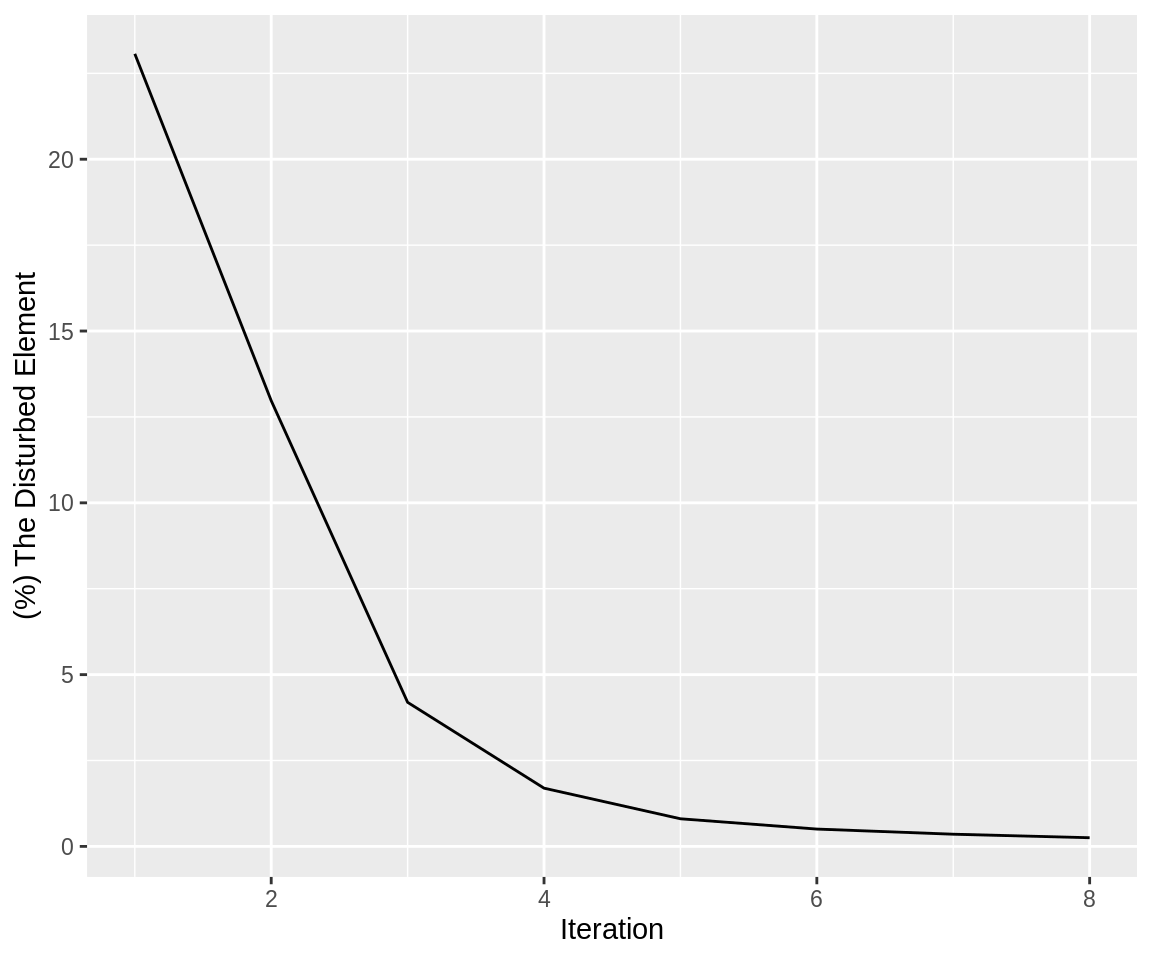
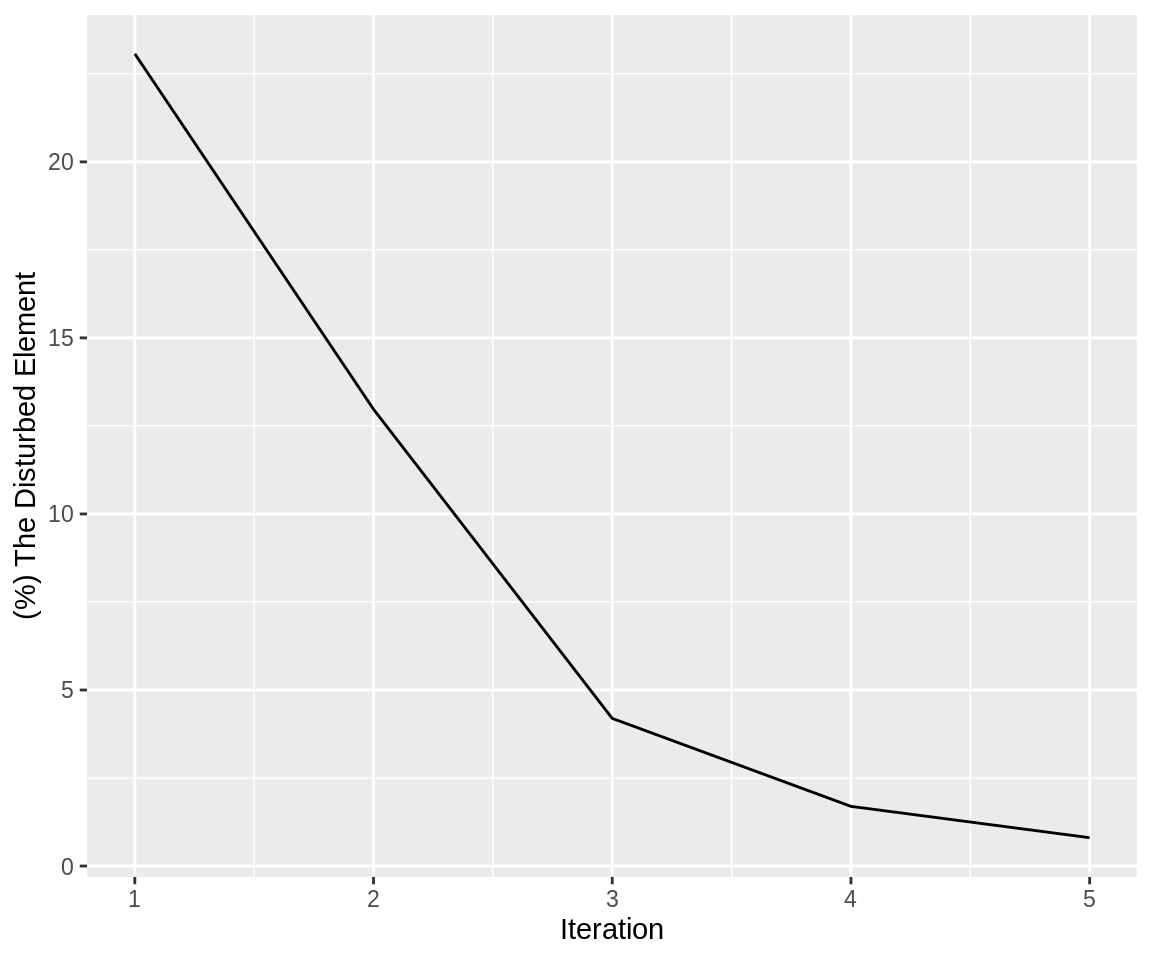
Built site for ceRNAnetsim: 0.99.23@09b2c7a

diff --git a/articles/mirtarbase_example.html b/articles/mirtarbase_example.html
@@ -39,7 +39,7 @@
       </button>
       <span class="navbar-brand">
         <a class="navbar-link" href="../index.html">ceRNAnetsim</a>
-        <span class="version label label-default" data-toggle="tooltip" data-placement="bottom" title="Released version">0.99.22</span>
+        <span class="version label label-default" data-toggle="tooltip" data-placement="bottom" title="Released version">0.99.23</span>
       </span>
     </div>
 
@@ -291,7 +291,7 @@
 <a class="sourceLine" id="cb12-3" data-line-number="3"><span class="st">  </span><span class="kw"><a href="../reference/priming_graph.html">priming_graph</a></span>(<span class="dt">competing_count =</span> gene_expression, </a>
 <a class="sourceLine" id="cb12-4" data-line-number="4">                <span class="dt">miRNA_count =</span> total_read) <span class="op">%&gt;%</span><span class="st"> </span></a>
 <a class="sourceLine" id="cb12-5" data-line-number="5"><span class="st">  </span><span class="kw"><a href="../reference/update_how.html">update_how</a></span>(<span class="dt">node_name =</span> <span class="st">"HIST1H3H"</span>, <span class="dt">how =</span><span class="dv">30</span>) <span class="op">%&gt;%</span><span class="st"> </span></a>
-<a class="sourceLine" id="cb12-6" data-line-number="6"><span class="st">  </span><span class="kw"><a href="../reference/simulate.html">simulate</a></span>(<span class="dv">8</span>) -&gt;simulation_res_HIST</a>
+<a class="sourceLine" id="cb12-6" data-line-number="6"><span class="st">  </span><span class="kw"><a href="../reference/simulate.html">simulate</a></span>(<span class="dv">5</span>) -&gt;simulation_res_HIST</a>
 <a class="sourceLine" id="cb12-7" data-line-number="7"></a>
 <a class="sourceLine" id="cb12-8" data-line-number="8">simulation_res_HIST<span class="op">%&gt;%</span></a>
 <a class="sourceLine" id="cb12-9" data-line-number="9"><span class="st">  </span><span class="kw"><a href="../reference/find_iteration.html">find_iteration</a></span>(<span class="dt">plot=</span><span class="ot">TRUE</span>)</a></code></pre></div>
@@ -305,23 +305,23 @@
 <a class="sourceLine" id="cb13-6" data-line-number="6"><span class="co">#&gt; # A tibble: 13,432 x 8</span></a>
 <a class="sourceLine" id="cb13-7" data-line-number="7"><span class="co">#&gt;    name  type  node_id initial_count count_pre count_current changes_variable</span></a>
 <a class="sourceLine" id="cb13-8" data-line-number="8"><span class="co">#&gt;    &lt;chr&gt; &lt;chr&gt;   &lt;int&gt;         &lt;dbl&gt;     &lt;dbl&gt;         &lt;dbl&gt; &lt;chr&gt;           </span></a>
-<a class="sourceLine" id="cb13-9" data-line-number="9"><span class="co">#&gt;  1 HIST… Comp…    9705            27     808.          808.  Up              </span></a>
+<a class="sourceLine" id="cb13-9" data-line-number="9"><span class="co">#&gt;  1 HIST… Comp…    9705            27     808.          808.  Down            </span></a>
 <a class="sourceLine" id="cb13-10" data-line-number="10"><span class="co">#&gt;  2 KLHL… Comp…     618           579     579.          579.  Up              </span></a>
-<a class="sourceLine" id="cb13-11" data-line-number="11"><span class="co">#&gt;  3 YWHAZ Comp…     393         15845   15845.        15845.  Down            </span></a>
+<a class="sourceLine" id="cb13-11" data-line-number="11"><span class="co">#&gt;  3 YWHAZ Comp…     393         15845   15845.        15845.  Up              </span></a>
 <a class="sourceLine" id="cb13-12" data-line-number="12"><span class="co">#&gt;  4 SOCS1 Comp…     433            27      27.0          27.0 Up              </span></a>
-<a class="sourceLine" id="cb13-13" data-line-number="13"><span class="co">#&gt;  5 NNT   Comp…    3404          1909    1909.         1909.  Up              </span></a>
-<a class="sourceLine" id="cb13-14" data-line-number="14"><span class="co">#&gt;  6 PPIP… Comp…    7084          2342    2342.         2342.  Up              </span></a>
-<a class="sourceLine" id="cb13-15" data-line-number="15"><span class="co">#&gt;  7 LYVE1 Comp…   11198           916     916.          916.  Up              </span></a>
-<a class="sourceLine" id="cb13-16" data-line-number="16"><span class="co">#&gt;  8 IL10  Comp…    1639            13      13.0          13.0 Up              </span></a>
-<a class="sourceLine" id="cb13-17" data-line-number="17"><span class="co">#&gt;  9 L1CAM Comp…    2651            60      60.0          60.0 Down            </span></a>
-<a class="sourceLine" id="cb13-18" data-line-number="18"><span class="co">#&gt; 10 IFIT… Comp…    6030          1550    1550.         1550.  Up              </span></a>
+<a class="sourceLine" id="cb13-13" data-line-number="13"><span class="co">#&gt;  5 NNT   Comp…    3404          1909    1909.         1909.  Down            </span></a>
+<a class="sourceLine" id="cb13-14" data-line-number="14"><span class="co">#&gt;  6 PPIP… Comp…    7084          2342    2342.         2342.  Down            </span></a>
+<a class="sourceLine" id="cb13-15" data-line-number="15"><span class="co">#&gt;  7 LYVE1 Comp…   11198           916     916.          916.  Down            </span></a>
+<a class="sourceLine" id="cb13-16" data-line-number="16"><span class="co">#&gt;  8 IL10  Comp…    1639            13      13.0          13.0 Down            </span></a>
+<a class="sourceLine" id="cb13-17" data-line-number="17"><span class="co">#&gt;  9 L1CAM Comp…    2651            60      60.0          60.0 Up              </span></a>
+<a class="sourceLine" id="cb13-18" data-line-number="18"><span class="co">#&gt; 10 IFIT… Comp…    6030          1550    1550.         1550.  Down            </span></a>
 <a class="sourceLine" id="cb13-19" data-line-number="19"><span class="co">#&gt; # … with 13,422 more rows, and 1 more variable: FC &lt;dbl&gt;</span></a></code></pre></div>
 <p>And then, we tried to simulate the network with the gene which has higher expression value. For this, we selected <em>ACTB</em> node as shown in <a href="https://selcenari.github.io/ceRNAnetsim/articles/auxiliary_commands.html">The auxiliary commands which can help to the users</a></p>
 <div class="sourceCode" id="cb14"><pre class="sourceCode r"><code class="sourceCode r"><a class="sourceLine" id="cb14-1" data-line-number="1">simulation_res_ACTB &lt;-<span class="st"> </span>TCGA_E9_A1N5_mirnagene <span class="op">%&gt;%</span><span class="st"> </span></a>
 <a class="sourceLine" id="cb14-2" data-line-number="2"><span class="st">  </span><span class="kw"><a href="../reference/priming_graph.html">priming_graph</a></span>(<span class="dt">competing_count =</span> gene_expression, </a>
 <a class="sourceLine" id="cb14-3" data-line-number="3">                <span class="dt">miRNA_count =</span> total_read) <span class="op">%&gt;%</span><span class="st"> </span></a>
 <a class="sourceLine" id="cb14-4" data-line-number="4"><span class="st">  </span><span class="kw"><a href="../reference/update_how.html">update_how</a></span>(<span class="dt">node_name =</span> <span class="st">"ACTB"</span>, <span class="dt">how =</span><span class="fl">1.87</span>) <span class="op">%&gt;%</span><span class="st"> </span></a>
-<a class="sourceLine" id="cb14-5" data-line-number="5"><span class="st">  </span><span class="kw"><a href="../reference/simulate.html">simulate</a></span>(<span class="dv">8</span>)</a>
+<a class="sourceLine" id="cb14-5" data-line-number="5"><span class="st">  </span><span class="kw"><a href="../reference/simulate.html">simulate</a></span>(<span class="dv">5</span>)</a>
 <a class="sourceLine" id="cb14-6" data-line-number="6"></a>
 <a class="sourceLine" id="cb14-7" data-line-number="7">simulation_res_ACTB<span class="op">%&gt;%</span></a>
 <a class="sourceLine" id="cb14-8" data-line-number="8"><span class="st">  </span><span class="kw"><a href="../reference/find_iteration.html">find_iteration</a></span>(<span class="dt">plot=</span><span class="ot">TRUE</span>)</a></code></pre></div>
@@ -335,16 +335,16 @@
 <a class="sourceLine" id="cb15-6" data-line-number="6"><span class="co">#&gt; # A tibble: 13,432 x 8</span></a>
 <a class="sourceLine" id="cb15-7" data-line-number="7"><span class="co">#&gt;    name  type  node_id initial_count count_pre count_current changes_variable</span></a>
 <a class="sourceLine" id="cb15-8" data-line-number="8"><span class="co">#&gt;    &lt;chr&gt; &lt;chr&gt;   &lt;int&gt;         &lt;dbl&gt;     &lt;dbl&gt;         &lt;dbl&gt; &lt;chr&gt;           </span></a>
-<a class="sourceLine" id="cb15-9" data-line-number="9"><span class="co">#&gt;  1 ACTB  Comp…      84        101917  183710.       183710.  Up              </span></a>
-<a class="sourceLine" id="cb15-10" data-line-number="10"><span class="co">#&gt;  2 ADIP… Comp…     319          3015    3026.         3026.  Up              </span></a>
+<a class="sourceLine" id="cb15-9" data-line-number="9"><span class="co">#&gt;  1 ACTB  Comp…      84        101917  183711.       183710.  Down            </span></a>
+<a class="sourceLine" id="cb15-10" data-line-number="10"><span class="co">#&gt;  2 ADIP… Comp…     319          3015    3026.         3026.  Down            </span></a>
 <a class="sourceLine" id="cb15-11" data-line-number="11"><span class="co">#&gt;  3 RRM2  Comp…      67          1479    1484.         1484.  Up              </span></a>
-<a class="sourceLine" id="cb15-12" data-line-number="12"><span class="co">#&gt;  4 FAM1… Comp…     385           569     571.          571.  Up              </span></a>
+<a class="sourceLine" id="cb15-12" data-line-number="12"><span class="co">#&gt;  4 FAM1… Comp…     385           569     571.          571.  Down            </span></a>
 <a class="sourceLine" id="cb15-13" data-line-number="13"><span class="co">#&gt;  5 YOD1  Comp…     472           470     472.          472.  Up              </span></a>
 <a class="sourceLine" id="cb15-14" data-line-number="14"><span class="co">#&gt;  6 ZNF2… Comp…     302          1395    1400.         1400.  Up              </span></a>
-<a class="sourceLine" id="cb15-15" data-line-number="15"><span class="co">#&gt;  7 DNAJ… Comp…     557            60      60.2          60.2 Up              </span></a>
+<a class="sourceLine" id="cb15-15" data-line-number="15"><span class="co">#&gt;  7 DNAJ… Comp…     557            60      60.2          60.2 Down            </span></a>
 <a class="sourceLine" id="cb15-16" data-line-number="16"><span class="co">#&gt;  8 FXN   Comp…     374           382     383.          383.  Up              </span></a>
-<a class="sourceLine" id="cb15-17" data-line-number="17"><span class="co">#&gt;  9 NKIR… Comp…       4          1519    1524.         1524.  Up              </span></a>
-<a class="sourceLine" id="cb15-18" data-line-number="18"><span class="co">#&gt; 10 NRAS  Comp…       7          2311    2318.         2318.  Up              </span></a>
+<a class="sourceLine" id="cb15-17" data-line-number="17"><span class="co">#&gt;  9 NKIR… Comp…       4          1519    1524.         1524.  Down            </span></a>
+<a class="sourceLine" id="cb15-18" data-line-number="18"><span class="co">#&gt; 10 CDKN… Comp…      42          1172    1173.         1176.  Up              </span></a>
 <a class="sourceLine" id="cb15-19" data-line-number="19"><span class="co">#&gt; # … with 13,422 more rows, and 1 more variable: FC &lt;dbl&gt;</span></a></code></pre></div>
 <p>Note: it can be useful that you look at <a href="https://selcenari.github.io/ceRNAnetsim/articles/auxiliary_commands.html">The auxiliary commands which can help to the users</a> for perturbation efficiency of ACTB gene by simulation with same conditions and different expression changes.</p>
 </div>
@@ -514,7 +514,7 @@
 <a class="sourceLine" id="cb22-19" data-line-number="19"><span class="co">#&gt; [1] stats     graphics  grDevices utils     datasets  methods   base     </span></a>
 <a class="sourceLine" id="cb22-20" data-line-number="20"><span class="co">#&gt; </span></a>
 <a class="sourceLine" id="cb22-21" data-line-number="21"><span class="co">#&gt; other attached packages:</span></a>
-<a class="sourceLine" id="cb22-22" data-line-number="22"><span class="co">#&gt; [1] ceRNAnetsim_0.99.22 tidygraph_1.1.2     dplyr_0.8.3        </span></a>
+<a class="sourceLine" id="cb22-22" data-line-number="22"><span class="co">#&gt; [1] ceRNAnetsim_0.99.23 tidygraph_1.1.2     dplyr_0.8.3        </span></a>
 <a class="sourceLine" id="cb22-23" data-line-number="23"><span class="co">#&gt; </span></a>
 <a class="sourceLine" id="cb22-24" data-line-number="24"><span class="co">#&gt; loaded via a namespace (and not attached):</span></a>
 <a class="sourceLine" id="cb22-25" data-line-number="25"><span class="co">#&gt;  [1] tidyselect_0.2.5   xfun_0.11          purrr_0.3.3        listenv_0.7.0     </span></a>

diff --git a/articles/auxiliary_commands.html b/articles/auxiliary_commands.html
@@ -39,7 +39,7 @@
       </button>
       <span class="navbar-brand">
         <a class="navbar-link" href="../index.html">ceRNAnetsim</a>
-        <span class="version label label-default" data-toggle="tooltip" data-placement="bottom" title="Released version">0.99.22</span>
+        <span class="version label label-default" data-toggle="tooltip" data-placement="bottom" title="Released version">0.99.23</span>
       </span>
     </div>
 
@@ -270,7 +270,7 @@
 <a class="sourceLine" id="cb10-19" data-line-number="19"><span class="co">#&gt; [1] stats     graphics  grDevices utils     datasets  methods   base     </span></a>
 <a class="sourceLine" id="cb10-20" data-line-number="20"><span class="co">#&gt; </span></a>
 <a class="sourceLine" id="cb10-21" data-line-number="21"><span class="co">#&gt; other attached packages:</span></a>
-<a class="sourceLine" id="cb10-22" data-line-number="22"><span class="co">#&gt; [1] ceRNAnetsim_0.99.22 tidygraph_1.1.2     dplyr_0.8.3        </span></a>
+<a class="sourceLine" id="cb10-22" data-line-number="22"><span class="co">#&gt; [1] ceRNAnetsim_0.99.23 tidygraph_1.1.2     dplyr_0.8.3        </span></a>
 <a class="sourceLine" id="cb10-23" data-line-number="23"><span class="co">#&gt; </span></a>
 <a class="sourceLine" id="cb10-24" data-line-number="24"><span class="co">#&gt; loaded via a namespace (and not attached):</span></a>
 <a class="sourceLine" id="cb10-25" data-line-number="25"><span class="co">#&gt;  [1] tidyselect_0.2.5   xfun_0.11          purrr_0.3.3        listenv_0.7.0     </span></a>

diff --git a/articles/basic_usage.html b/articles/basic_usage.html
@@ -39,7 +39,7 @@
       </button>
       <span class="navbar-brand">
         <a class="navbar-link" href="../index.html">ceRNAnetsim</a>
-        <span class="version label label-default" data-toggle="tooltip" data-placement="bottom" title="Released version">0.99.22</span>
+        <span class="version label label-default" data-toggle="tooltip" data-placement="bottom" title="Released version">0.99.23</span>
       </span>
     </div>
 
@@ -748,7 +748,7 @@
 <a class="sourceLine" id="cb29-19" data-line-number="19"><span class="co">#&gt; [1] stats     graphics  grDevices utils     datasets  methods   base     </span></a>
 <a class="sourceLine" id="cb29-20" data-line-number="20"><span class="co">#&gt; </span></a>
 <a class="sourceLine" id="cb29-21" data-line-number="21"><span class="co">#&gt; other attached packages:</span></a>
-<a class="sourceLine" id="cb29-22" data-line-number="22"><span class="co">#&gt; [1] ceRNAnetsim_0.99.22 tidygraph_1.1.2     dplyr_0.8.3        </span></a>
+<a class="sourceLine" id="cb29-22" data-line-number="22"><span class="co">#&gt; [1] ceRNAnetsim_0.99.23 tidygraph_1.1.2     dplyr_0.8.3        </span></a>
 <a class="sourceLine" id="cb29-23" data-line-number="23"><span class="co">#&gt; </span></a>
 <a class="sourceLine" id="cb29-24" data-line-number="24"><span class="co">#&gt; loaded via a namespace (and not attached):</span></a>
 <a class="sourceLine" id="cb29-25" data-line-number="25"><span class="co">#&gt;  [1] tidyselect_0.2.5   xfun_0.11          purrr_0.3.3        listenv_0.7.0     </span></a>

diff --git a/articles/convenient_iteration.html b/articles/convenient_iteration.html
@@ -39,7 +39,7 @@
       </button>
       <span class="navbar-brand">
         <a class="navbar-link" href="../index.html">ceRNAnetsim</a>
-        <span class="version label label-default" data-toggle="tooltip" data-placement="bottom" title="Released version">0.99.22</span>
+        <span class="version label label-default" data-toggle="tooltip" data-placement="bottom" title="Released version">0.99.23</span>
       </span>
     </div>
 
@@ -519,7 +519,7 @@
 <a class="sourceLine" id="cb16-19" data-line-number="19"><span class="co">#&gt; [1] stats     graphics  grDevices utils     datasets  methods   base     </span></a>
 <a class="sourceLine" id="cb16-20" data-line-number="20"><span class="co">#&gt; </span></a>
 <a class="sourceLine" id="cb16-21" data-line-number="21"><span class="co">#&gt; other attached packages:</span></a>
-<a class="sourceLine" id="cb16-22" data-line-number="22"><span class="co">#&gt; [1] purrr_0.3.3         png_0.1-7           ceRNAnetsim_0.99.22</span></a>
+<a class="sourceLine" id="cb16-22" data-line-number="22"><span class="co">#&gt; [1] purrr_0.3.3         png_0.1-7           ceRNAnetsim_0.99.23</span></a>
 <a class="sourceLine" id="cb16-23" data-line-number="23"><span class="co">#&gt; [4] tidygraph_1.1.2     dplyr_0.8.3        </span></a>
 <a class="sourceLine" id="cb16-24" data-line-number="24"><span class="co">#&gt; </span></a>
 <a class="sourceLine" id="cb16-25" data-line-number="25"><span class="co">#&gt; loaded via a namespace (and not attached):</span></a>

diff --git a/reference/calc_perturbation.html b/reference/calc_perturbation.html
@@ -88,7 +88,7 @@ trigger and finds the perturbed node count for a given node." />
       </button>
       <span class="navbar-brand">
         <a class="navbar-link" href="../index.html">ceRNAnetsim</a>
-        <span class="version label label-default" data-toggle="tooltip" data-placement="bottom" title="Released version">0.99.22</span>
+        <span class="version label label-default" data-toggle="tooltip" data-placement="bottom" title="Released version">0.99.23</span>
       </span>
     </div>
 

diff --git a/reference/normalize.html b/reference/normalize.html
@@ -86,7 +86,7 @@ inside a group. The helper function of priming_graph." />
       </button>
       <span class="navbar-brand">
         <a class="navbar-link" href="../index.html">ceRNAnetsim</a>
-        <span class="version label label-default" data-toggle="tooltip" data-placement="bottom" title="Released version">0.99.22</span>
+        <span class="version label label-default" data-toggle="tooltip" data-placement="bottom" title="Released version">0.99.23</span>
       </span>
     </div>
 

diff --git a/reference/update_nodes.html b/reference/update_nodes.html
@@ -86,7 +86,7 @@ after `update_how` or `update_variables` functions" />
       </button>
       <span class="navbar-brand">
         <a class="navbar-link" href="../index.html">ceRNAnetsim</a>
-        <span class="version label label-default" data-toggle="tooltip" data-placement="bottom" title="Released version">0.99.22</span>
+        <span class="version label label-default" data-toggle="tooltip" data-placement="bottom" title="Released version">0.99.23</span>
       </span>
     </div>
 

diff --git a/reference/priming_graph.html b/reference/priming_graph.html
@@ -100,7 +100,7 @@ the factors are taken into account." />
       </button>
       <span class="navbar-brand">
         <a class="navbar-link" href="../index.html">ceRNAnetsim</a>
-        <span class="version label label-default" data-toggle="tooltip" data-placement="bottom" title="Released version">0.99.22</span>
+        <span class="version label label-default" data-toggle="tooltip" data-placement="bottom" title="Released version">0.99.23</span>
       </span>
     </div>
 

diff --git a/reference/update_variables.html b/reference/update_variables.html
@@ -88,7 +88,7 @@ values of competing or miRNA counts." />
       </button>
       <span class="navbar-brand">
         <a class="navbar-link" href="../index.html">ceRNAnetsim</a>
-        <span class="version label label-default" data-toggle="tooltip" data-placement="bottom" title="Released version">0.99.22</span>
+        <span class="version label label-default" data-toggle="tooltip" data-placement="bottom" title="Released version">0.99.23</span>
       </span>
     </div>
 

diff --git a/reference/find_node_perturbation.html b/reference/find_node_perturbation.html
@@ -91,7 +91,7 @@ all (or specified) nodes in system." />
       </button>
       <span class="navbar-brand">
         <a class="navbar-link" href="../index.html">ceRNAnetsim</a>
-        <span class="version label label-default" data-toggle="tooltip" data-placement="bottom" title="Released version">0.99.22</span>
+        <span class="version label label-default" data-toggle="tooltip" data-placement="bottom" title="Released version">0.99.23</span>
       </span>
     </div>
 

diff --git a/404.html b/404.html
@@ -83,7 +83,7 @@
       </button>
       <span class="navbar-brand">
         <a class="navbar-link" href="https://selcenari.github.io/ceRNAnetsim//index.html">ceRNAnetsim</a>
-        <span class="version label label-default" data-toggle="tooltip" data-placement="bottom" title="Released version">0.99.22</span>
+        <span class="version label label-default" data-toggle="tooltip" data-placement="bottom" title="Released version">0.99.23</span>
       </span>
     </div>
 

diff --git a/articles/index.html b/articles/index.html
@@ -83,7 +83,7 @@
       </button>
       <span class="navbar-brand">
         <a class="navbar-link" href="../index.html">ceRNAnetsim</a>
-        <span class="version label label-default" data-toggle="tooltip" data-placement="bottom" title="Released version">0.99.22</span>
+        <span class="version label label-default" data-toggle="tooltip" data-placement="bottom" title="Released version">0.99.23</span>
       </span>
     </div>
 
